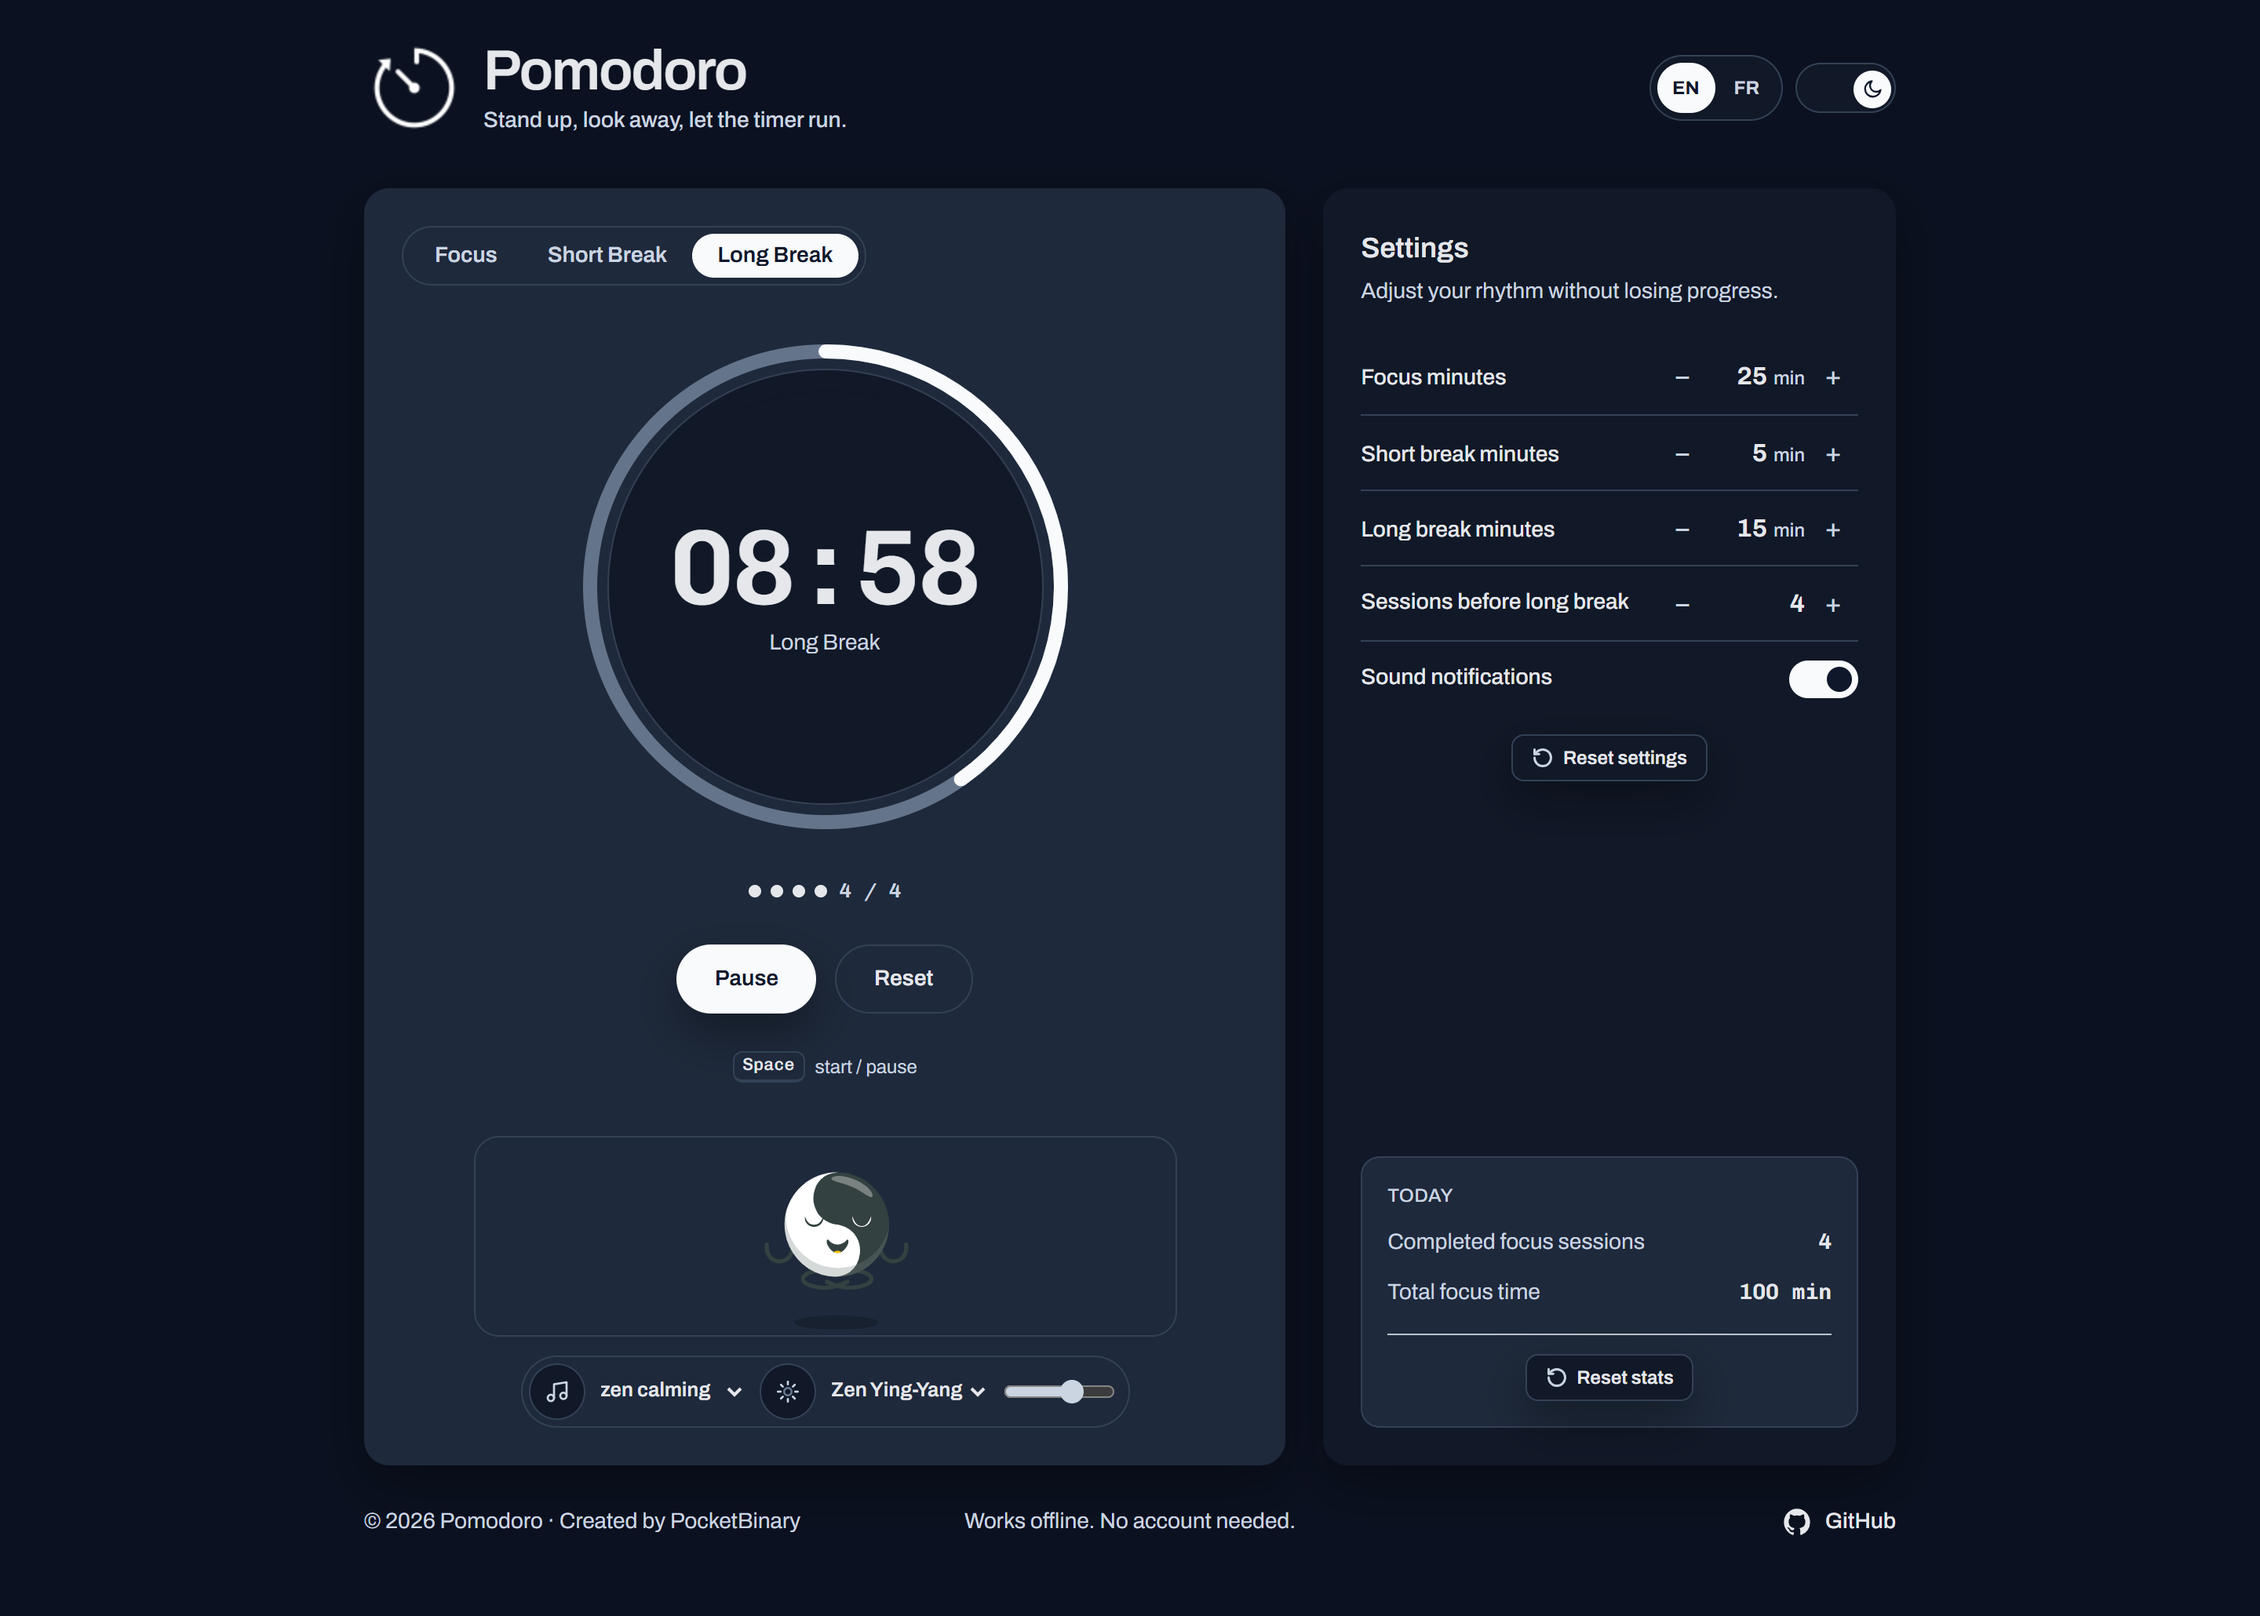
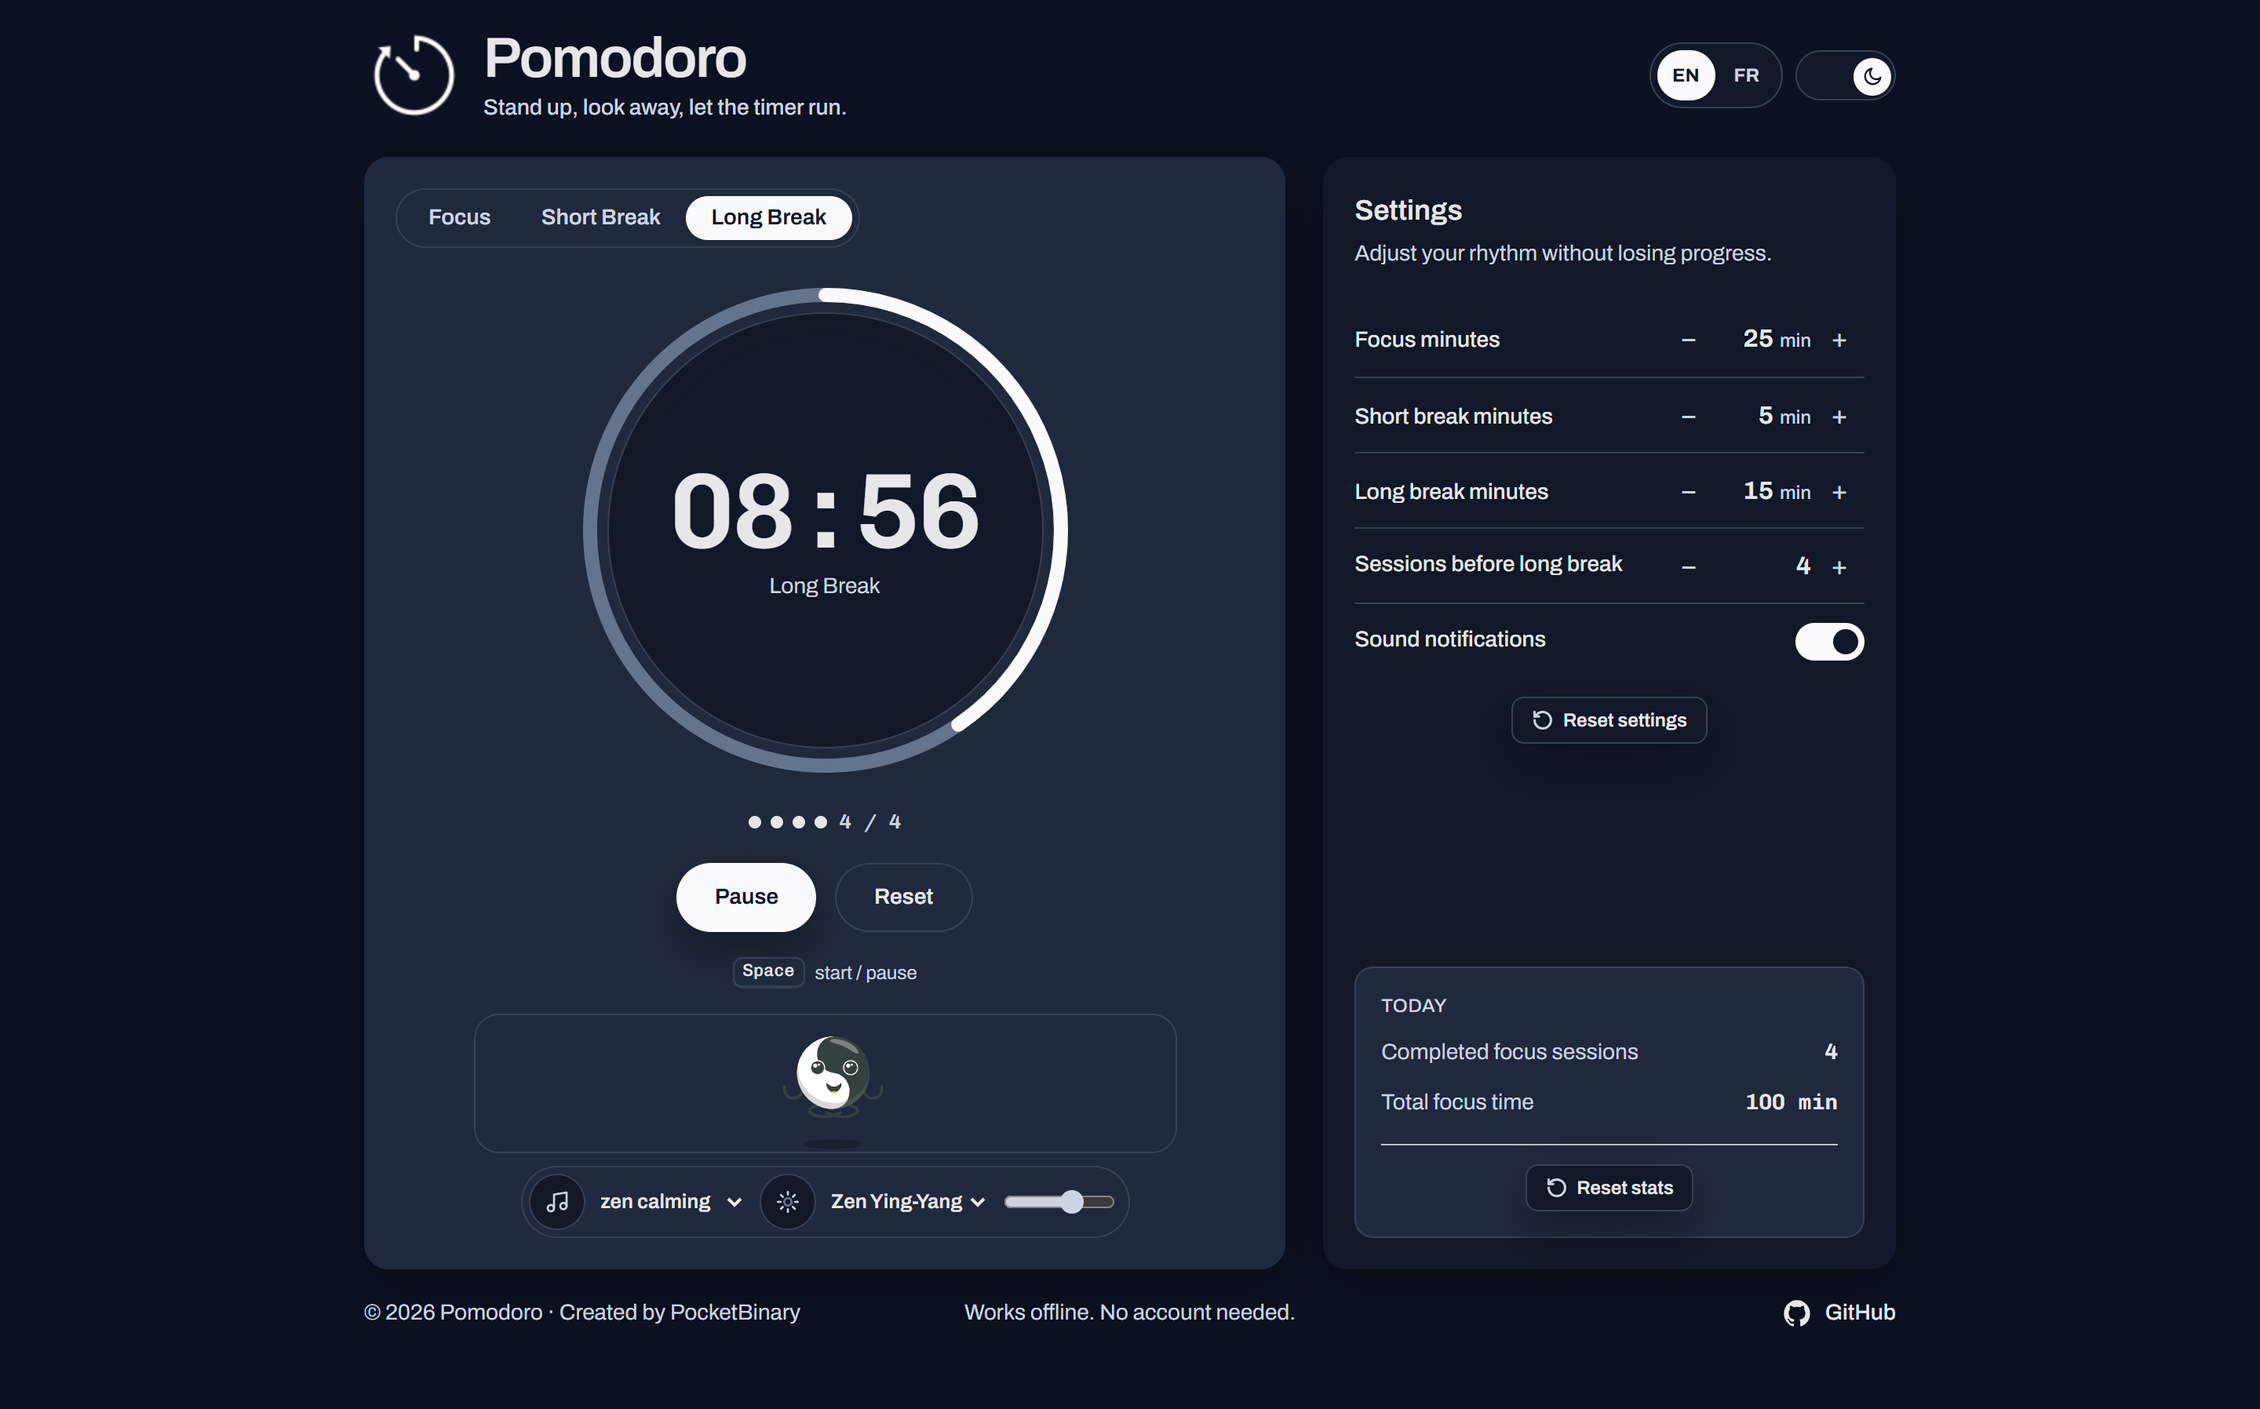
feat: add pomodoro application style and structure

diff --git a/css/style.css b/css/style.css
@@ -395,7 +395,9 @@
 
     .break-stage {
       position: relative;
-      height: 6.5rem;
+      /* Scales with the viewport height: the stage is the one block that can give
+         room back on short laptop screens without hurting the hero timer */
+      height: clamp(6rem, 12vh, 8rem);
       overflow: hidden;
       border: 1px solid var(--app-border);
       border-radius: 1rem;
@@ -1089,9 +1091,6 @@
         height: 4rem;
       }
 
-      .break-stage {
-        height: 8rem;
-      }
     }
 
     @media (max-width: 639px) {
@@ -1249,5 +1248,51 @@
         animation-duration: 0.01ms !important;
         animation-iteration-count: 1 !important;
         transition-duration: 0.01ms !important;
+      }
+    }
+
+    /* ==========================================================================
+       SHORT VIEWPORTS (laptops <= 940 px tall)
+       ==========================================================================
+       A break adds the animation stage and the media player to an already tall
+       timer card, which used to push the footer under the fold on a 900 px
+       screen. The stage height is fluid (clamp) and the vertical rhythm tightens
+       here, so the whole page fits without touching the hero dial.
+       1040 px is the exact height where the regular rhythm stops overflowing. */
+    @media (min-width: 768px) and (max-height: 1040px) {
+      #main-content {
+        padding-top: 1rem !important;
+        padding-bottom: 1rem !important;
+      }
+
+      .app-header {
+        margin-bottom: 1.25rem;
+      }
+
+      #timerCard,
+      .app-main-grid>aside {
+        padding: 1.25rem;
+      }
+
+      #timerStack {
+        margin-top: 1.25rem;
+        gap: 1rem;
+      }
+
+      .timer-controls {
+        gap: 1rem;
+      }
+
+      .break-atmosphere {
+        margin-top: 0;
+        gap: 0.5rem;
+      }
+
+      .break-stage {
+        height: clamp(5rem, 10vh, 7rem);
+      }
+
+      body footer {
+        padding-bottom: 1rem;
       }
     }

diff --git a/index.html b/index.html
@@ -269,7 +269,7 @@
         </div>
 
         <!-- ZONE DU COMPTE À REBOURS AVEC ANNEAU CIRCULAIRE SVG (Rôle timer & progressbar) -->
-        <div class="mt-8 flex flex-col items-center gap-6">
+        <div id="timerStack" class="mt-8 flex flex-col items-center gap-6">
           <div class="relative flex items-center justify-center" id="timer-display" role="tabpanel"
             aria-labelledby="modeSwitcher">
             <svg class="absolute inset-0 h-full w-full -rotate-90 overflow-visible" viewBox="0 0 320 320"
@@ -298,7 +298,7 @@
           </div>
 
           <!-- BOUTONS D'ACTION PRINCIPAUX (Démarrer / Mettre en pause, Réinitialiser) -->
-          <div class="flex flex-col items-center gap-6">
+          <div class="timer-controls flex flex-col items-center gap-6">
             <div class="flex flex-wrap items-center justify-center gap-3">
               <button id="startPauseBtn" type="button"
                 class="min-h-11 rounded-full bg-slate-900 px-6 py-2 text-sm font-semibold text-white shadow-sm transition hover:bg-slate-800 active:scale-[0.98] focus:outline-none"
